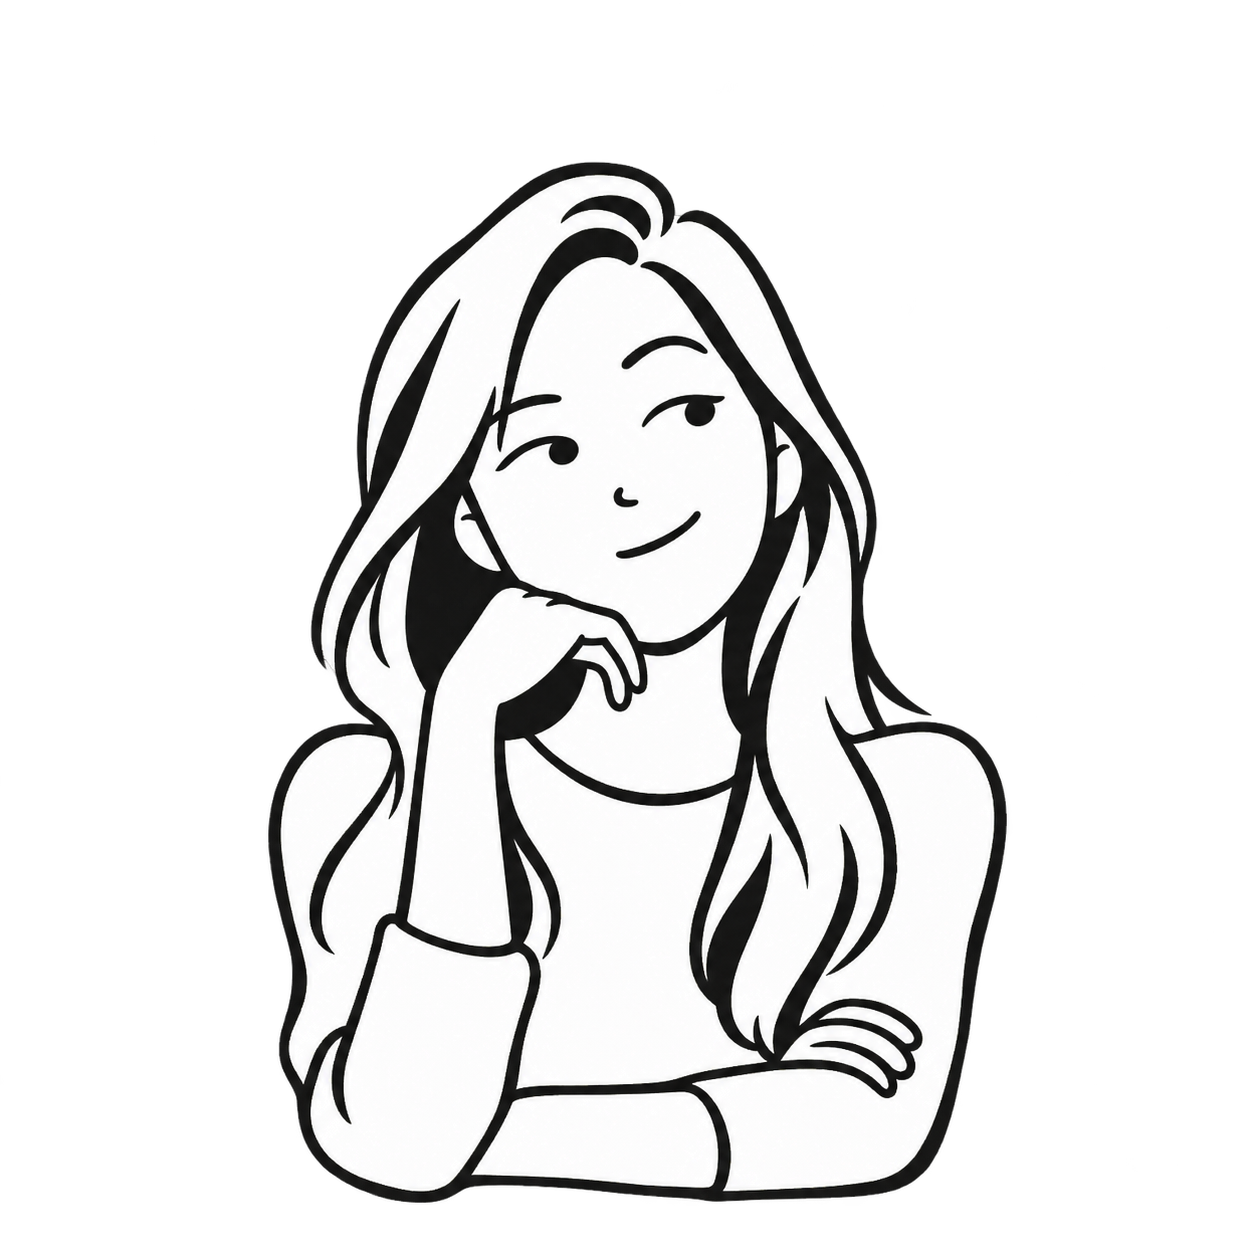
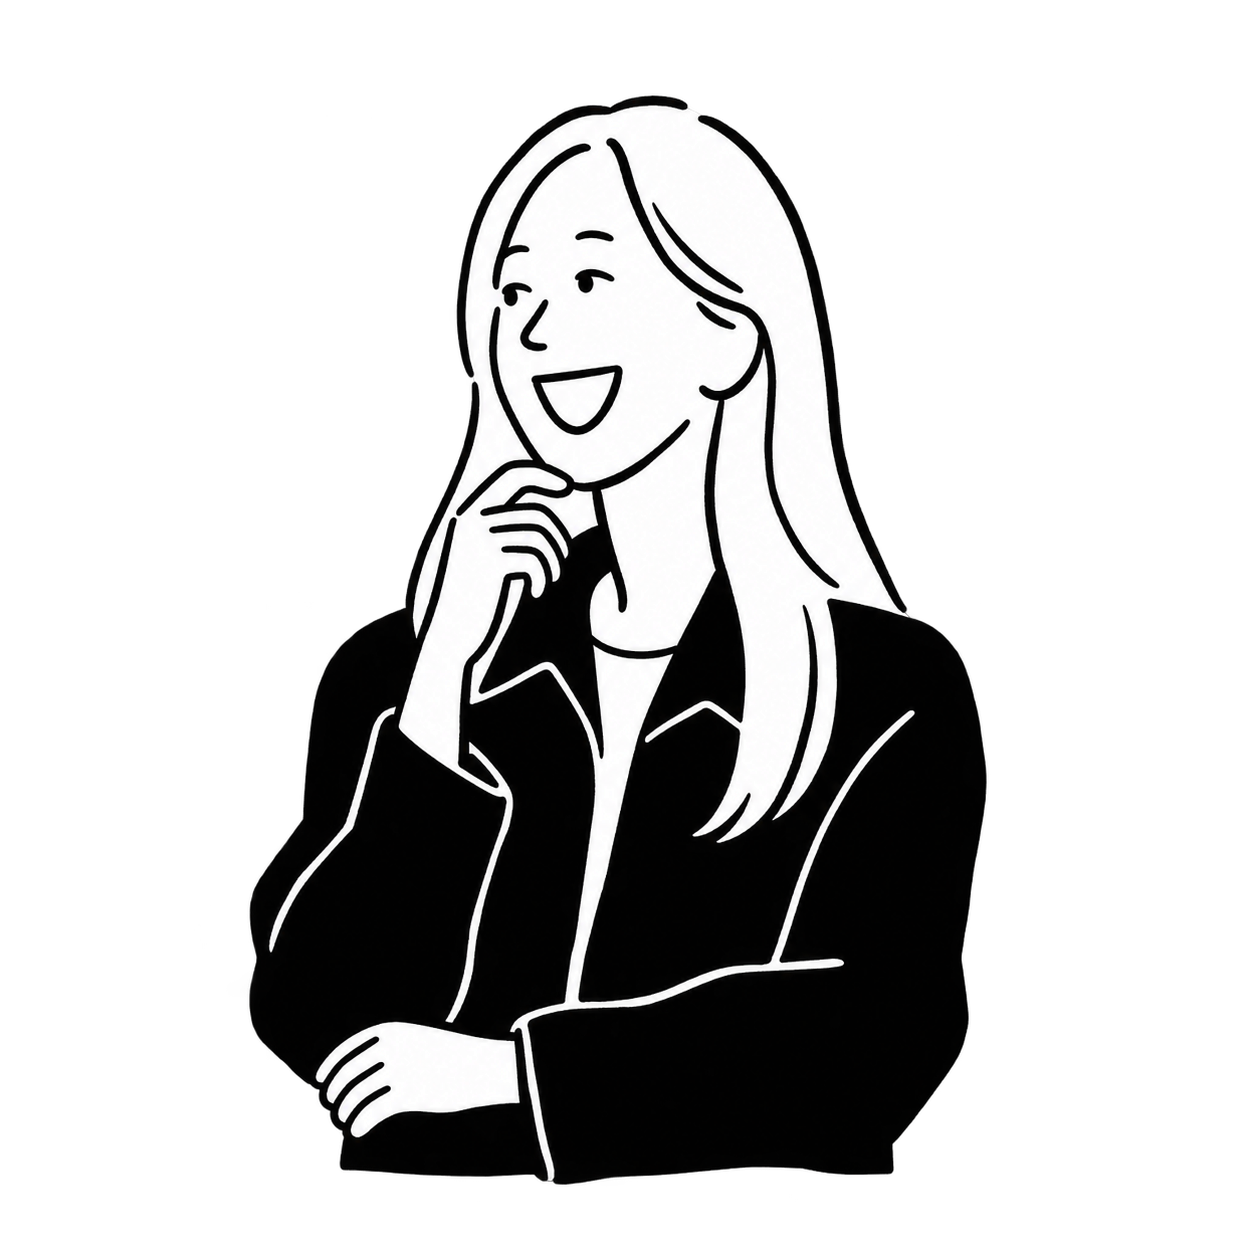
Refresh About character with editorial black-ink illustration

Changed region(s): [[0.1866, 0.0622, 0.8086, 0.9641], [0.5598, 0.0933, 0.622, 0.1555]]

diff --git a/about/index.html b/about/index.html
@@ -5,8 +5,8 @@
 <button class="menu-toggle" type="button" aria-controls="main-menu" aria-expanded="false" data-menu-toggle>메뉴 <span aria-hidden="true">+</span></button>
 <div class="nav-links" id="main-menu" data-menu><a href="/">Main</a><a href="/services/">Service</a><a href="/notes/">Notes</a><a class="nav-contact" href="/contact/">마케팅 문의 <svg class="arrow" viewBox="0 0 24 24" aria-hidden="true"><path d="M4 12h16M14 6l6 6-6 6"/></svg></a></div>
 </nav></div></header><main id="main"><section class="wrap page-intro"><nav class="breadcrumb" aria-label="현재 위치"><a href="/">Home</a><span aria-hidden="true">/</span>About</nav><span class="eyebrow">ABOUT DAWON HAE</span><h1><span class="copy-unit">브랜드 마케팅을</span> <span class="copy-unit">기획하고 운영합니다.</span></h1><p class="lead">브랜드 인하우스와 대행 실무를 거쳐, 지금은 브랜드의 실행 파트너로 일합니다.</p></section><section class="wrap about-profile"><div class="about-profile-copy"><span class="eyebrow">MARKETER · MARKETING PM</span><h2>황다원</h2><p>콘텐츠와 광고, <span class="copy-unit">인플루언서 협업부터</span> 그로스 · CRM까지. 브랜드의 목표에 필요한 업무를 연결하고 직접 실행합니다.</p><a class="editorial-link" href="/services/">서비스 살펴보기 <svg class="arrow" viewBox="0 0 24 24" aria-hidden="true"><path d="M4 12h16M14 6l6 6-6 6"/></svg></a></div><div class="about-character" data-character>
-<img src="/assets/brand/marketer-line.png?v=c53afc301a" alt="긴 머리에 턱을 괴고 미소 짓는 마케터의 블랙 라인 캐릭터" width="1254" height="1254" decoding="async">
+<img src="/assets/brand/marketer-line.png?v=6d07d2e4be" alt="긴 머리와 검정 재킷 차림으로 웃는 마케터 일러스트" width="1254" height="1254" decoding="async">
 <svg class="character-eyelids" viewBox="0 0 1254 1254" aria-hidden="true" focusable="false">
-<g fill="#fff"><ellipse cx="537" cy="453" rx="49" ry="23" transform="rotate(-18 537 453)"/><ellipse cx="683" cy="412" rx="48" ry="24" transform="rotate(-20 683 412)"/></g>
-<g fill="none" stroke="#151515" stroke-width="7" stroke-linecap="round"><path d="M500 465 Q541 474 574 443"/><path d="M646 421 Q684 436 720 400"/></g>
+<g fill="#fff"><rect x="500" y="280" width="35" height="29" rx="8"/><ellipse cx="594" cy="281" rx="24" ry="17"/></g>
+<g fill="none" stroke="#151515" stroke-width="6" stroke-linecap="round"><path d="M504 294 Q516 302 528 291"/><path d="M580 280 Q595 290 609 278"/></g>
 </svg></div></section><section class="wrap about-career"><div class="about-section-label"><span class="eyebrow">CAREER</span><h2>주요 경력</h2></div><ol class="career-timeline"><li><span class="career-period">2025–</span><div><h3>프리랜서 마케터</h3><p class="career-highlight">2억 규모 인플루언서 마케팅</p><p>SNS 채널 세팅 · 그로스 · 퍼포먼스 마케팅 · 카페24 자사몰 운영</p></div></li><li><span class="career-period">2022–2024</span><div><h3>에듀테크 브랜드 H</h3><p class="career-highlight">브랜드 런칭 · 그로스 마케팅</p><p><span class="copy-unit">브랜드 메시지</span> · 콘텐츠 · 체험단 · CRM</p></div></li><li><span class="career-period">2020–2021</span><div><h3>뷰티 브랜드 7</h3><p class="career-highlight">브랜드 콘텐츠 · <span class="copy-unit">인플루언서 협업</span></p><p>콘텐츠 기획과 캠페인 운영</p></div></li><li><span class="career-period">2018–2020</span><div><h3>인플루언서 플랫폼 M</h3><p class="career-highlight">2.5억 규모 인플루언서 마케팅</p><p>브랜드별 캠페인 기획 · 운영</p></div></li><li><span class="career-period">2016–2018</span><div><h3>방송사 J</h3><p class="career-highlight">예능 · 드라마 콘텐츠 마케팅</p><p>온라인 채널 운영</p></div></li></ol></section><section class="wrap about-principles"><div class="about-section-label"><span class="eyebrow">HOW I WORK</span><h2>일하는 기준</h2></div><div class="principle-grid"><div><b>01</b><h3>목표를 구체적으로</h3><p>현재 상황과 우선순위를 먼저 확인합니다.</p></div><div><b>02</b><h3>역할을 명확하게</h3><p>담당 업무와 결과물, 일정을 합의합니다.</p></div><div><b>03</b><h3>다음 실행까지</h3><p>결과를 분석하고 개선안을 남깁니다.</p></div></div></section><section class="contact-band"><div class="wrap contact-band-inner"><div class="contact-title"><span class="eyebrow">CONTACT</span><h2>다음 달의 마케팅을 함께.</h2><p>현재 상황을 알려주시면, 필요한 업무와 일정을 제안합니다.</p></div><div class="contact-mini"><aside class="slot-notice" data-slot-emphasis aria-label="월 신규 협업 슬롯 2개만 운영합니다."><div class="slot-copy"><span>월 신규 협업 슬롯</span><strong>2<span>개만 운영합니다.</span></strong></div></aside><a class="button" href="/contact/">마케팅 문의하기<svg class="arrow" viewBox="0 0 24 24" aria-hidden="true"><path d="M4 12h16M14 6l6 6-6 6"/></svg></a><a class="faq-contact-link" href="/faq/">비용 · 진행 방식 FAQ 보기 <svg class="arrow" viewBox="0 0 24 24" aria-hidden="true"><path d="M4 12h16M14 6l6 6-6 6"/></svg></a></div></div></section></main><footer class="minimal-footer"><div class="minimal-footer-inner"><span>© 2026 디원트</span><span>사업자등록번호 823-06-03931</span><nav aria-label="법적 고지"><a href="https://da1hae.xyz/privacy/">개인정보처리방침</a><a href="https://da1hae.xyz/terms/">이용약관</a></nav></div></footer></body></html>
